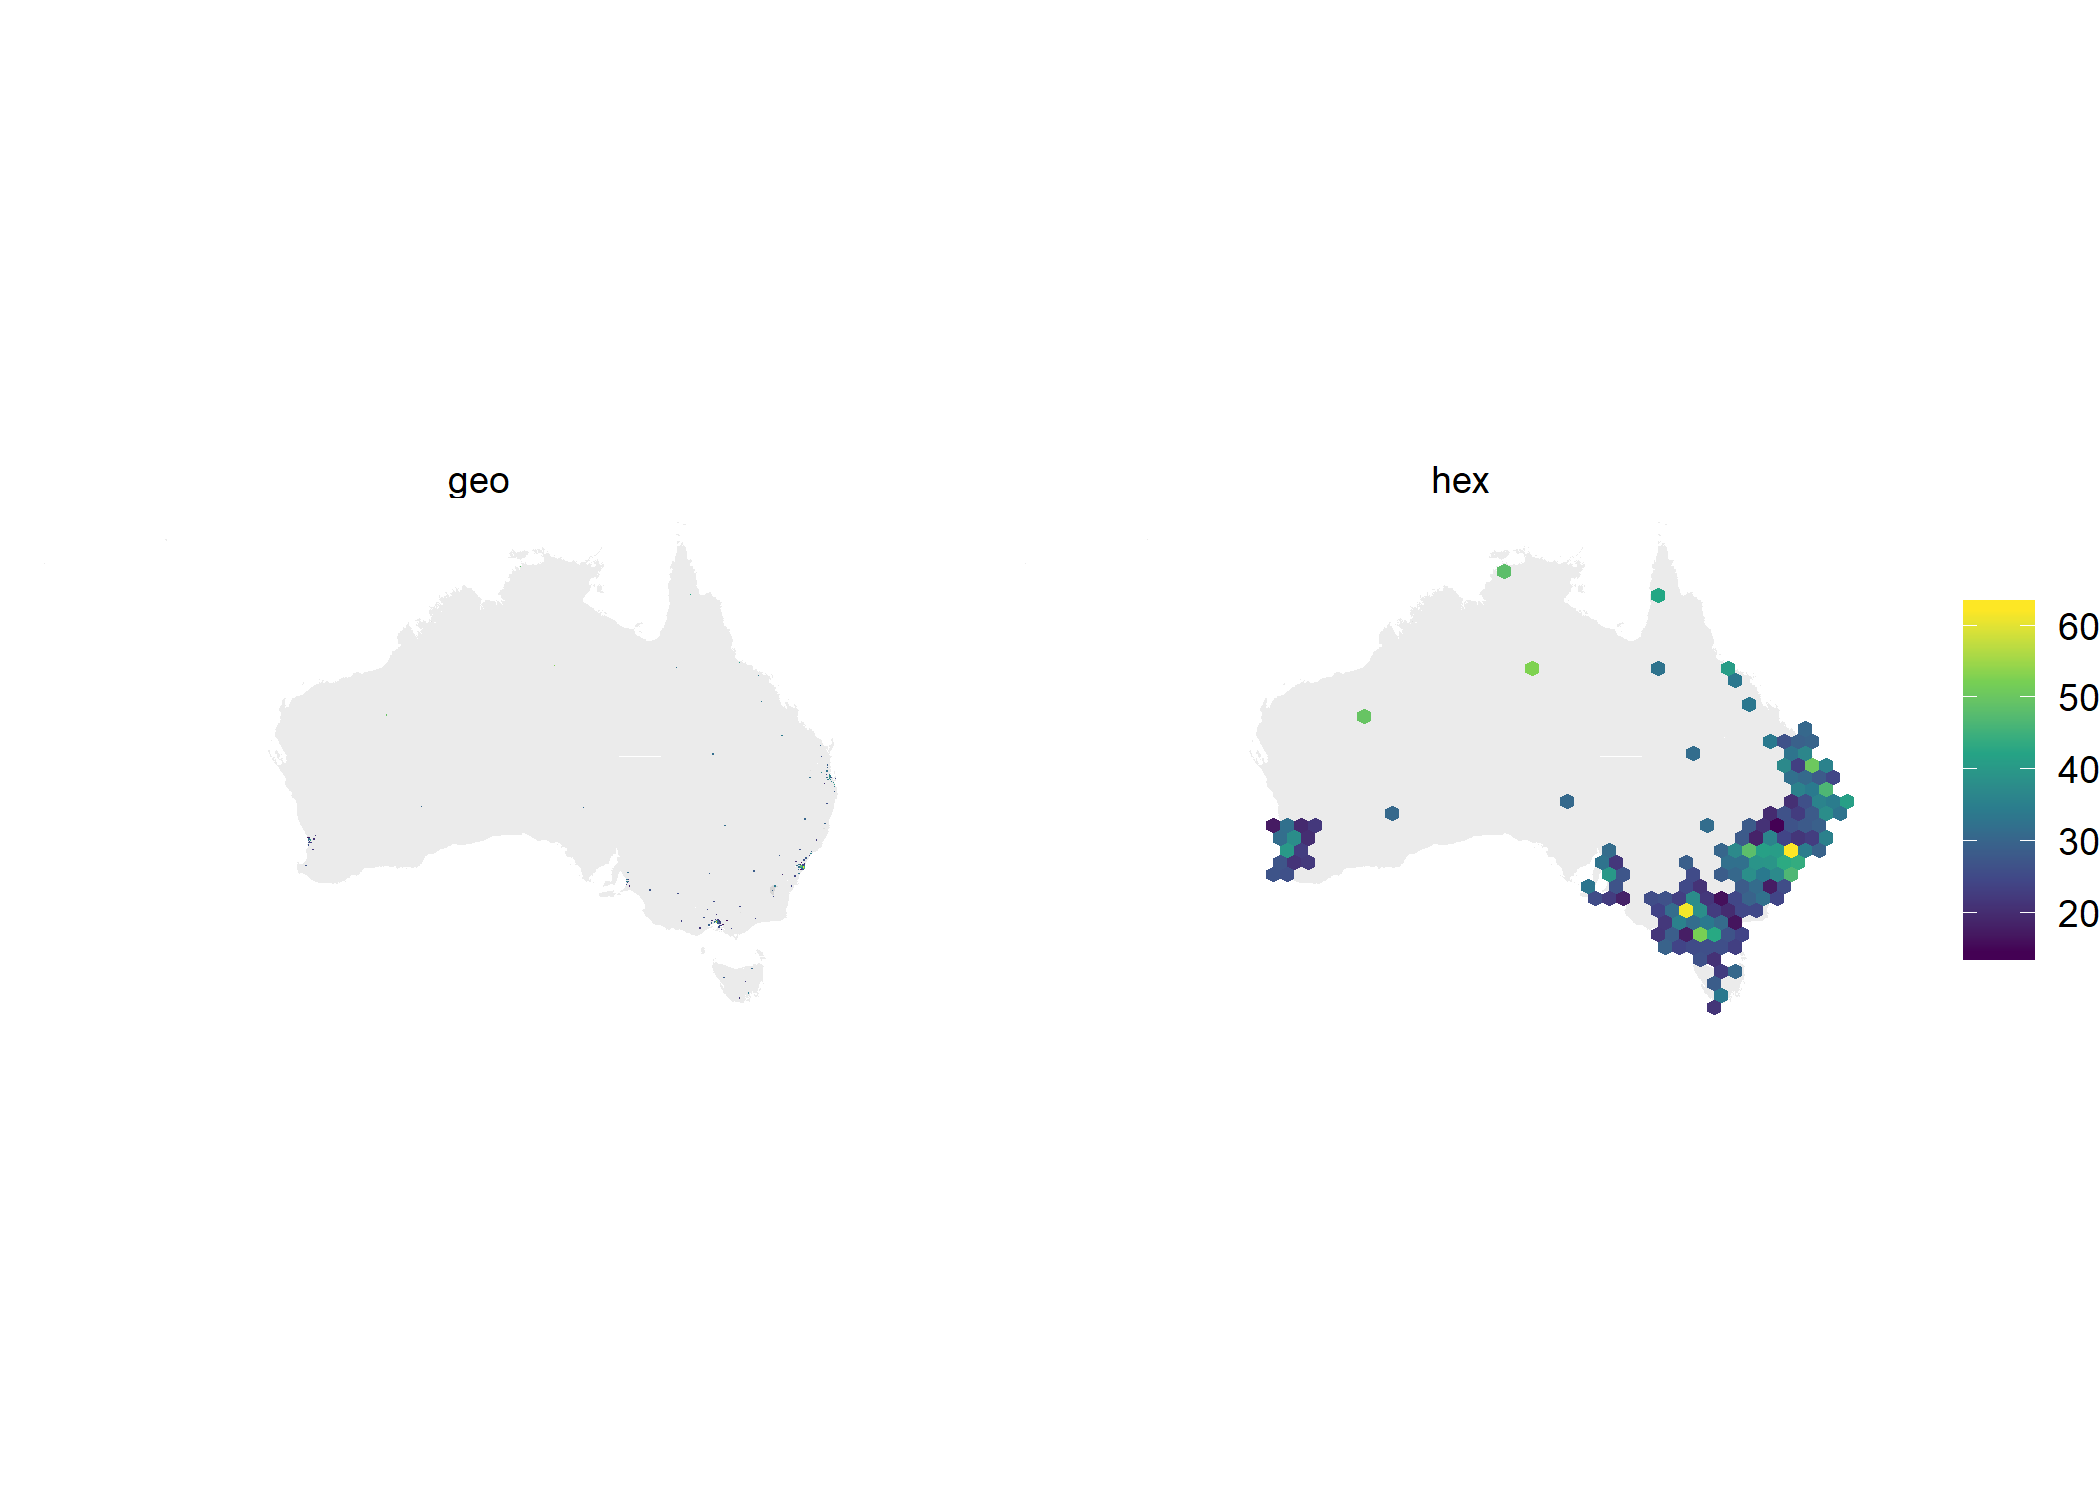
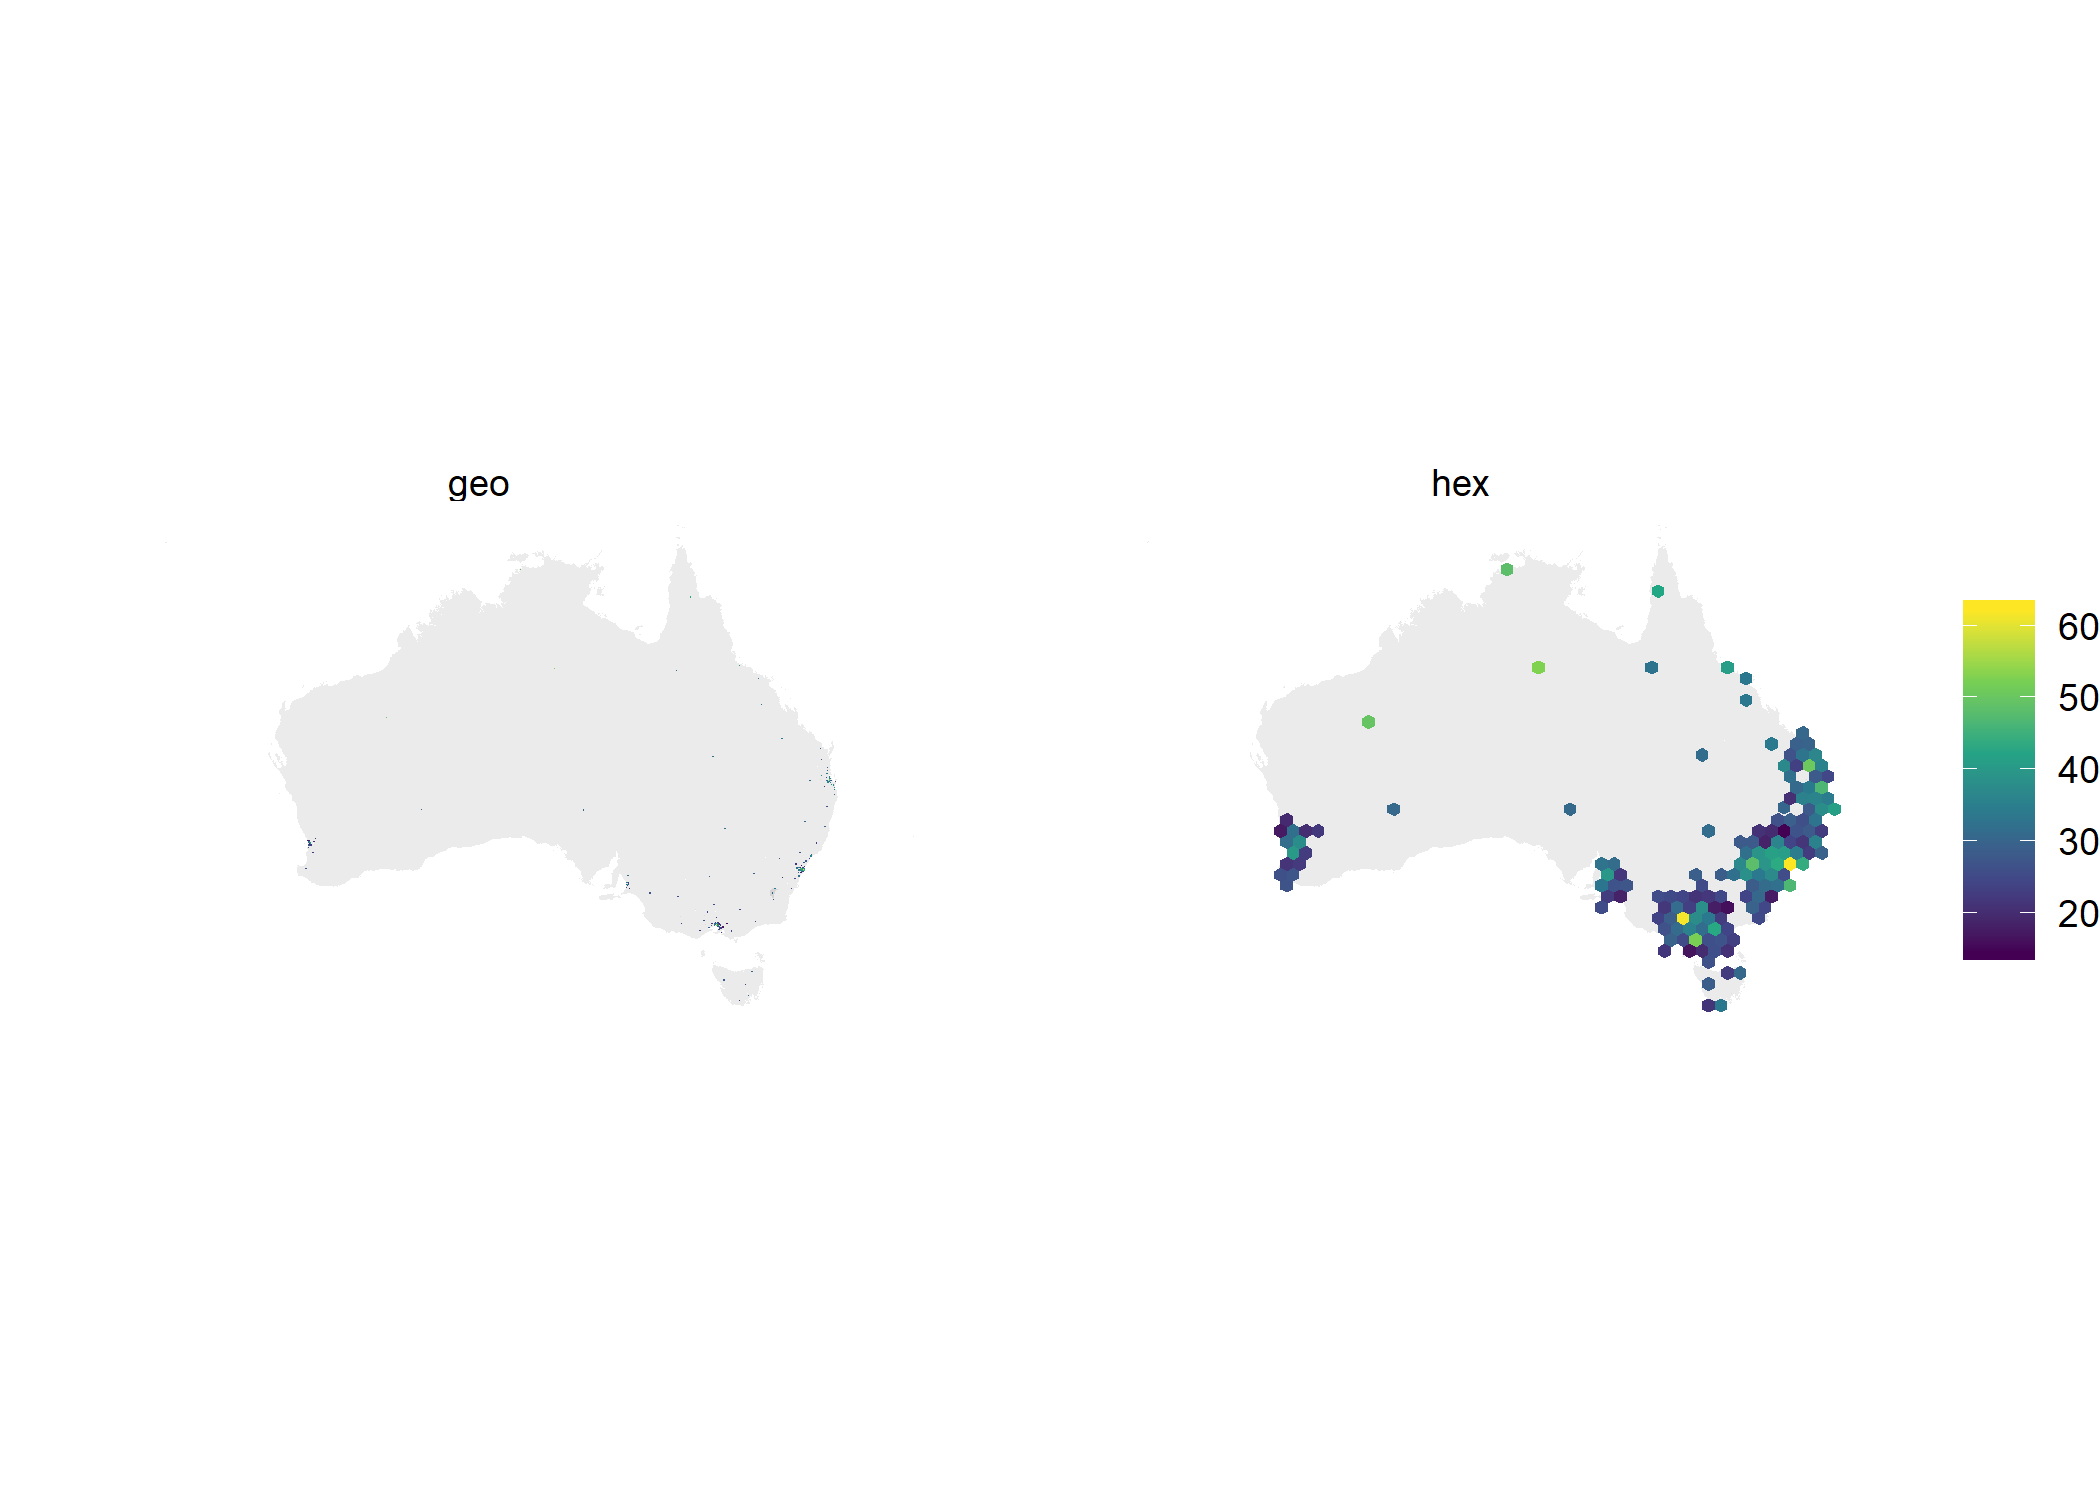
Explanations, and moving New England

diff --git a/README.md b/README.md
@@ -5,35 +5,30 @@
 
 [![Travis-CI Build
 Status](https://travis-ci.org/srkobakian/sugarbag.svg?branch=master)](https://travis-ci.org/srkobakian/sugarbag)
-[![CRAN\_Status\_Badge](http://www.r-pkg.org/badges/version/sugarbag)](https://cran.r-project.org/package=sugarbag)
-[![Downloads](http://cranlogs.r-pkg.org/badges/sugarbag?color=brightgreen)](https://cran.r-project.org/package=sugarbag)
-
 
 The **sugarbag** package creates tesselated hexagon maps for visualising
 geo-spatial data. Hexagons of equal size are positioned to best preserve
-relationships to focal points, and minimise distance from their actual
-location. This method provides an alternative to cartograms that allows
-all regions to be compared on the same visual scale.
+relationships between individual areas and the closest focal point, and
+minimise distance from their actual location. This method allows all
+regions to be compared on the same visual scale, and provides an
+alternative to cartograms.
 
 Maps containing regions with a few small and densely populated areas are
 extremely distorted in cartograms. An example of this is a population
 cartogram of Australia, which distorts the map into an unrecognisable
 shape. The technique implemented in this package is particularly useful
-for these
-regions.
+for these regions.
 
+## Installation
 
- # Installation
+You can install the released version of sugarbag from
+[CRAN](https://CRAN.R-project.org) with:
 
-<!-- You can install the released version of sugarbag from [CRAN](https://CRAN.R-project.org) with: -->
+``` r
+# install.packages("sugarbag")
+```
 
-<!-- ``` r -->
-
-<!-- install.packages("sugarbag") -->
-
-<!-- ``` -->
-
-You can install the development version from GitHub using
+You can install the development version from GitHub using:
 
 ``` r
 # install.packages("remotes")
@@ -44,32 +39,73 @@ You can install the development version from GitHub using
 
 Refer to pkgdown site: <https://srkobakian.github.io/sugarbag/>
 
+We will use the `eechidna` package for Australian electorates and
+election data.
+
 ``` r
 library(sugarbag)
 library(eechidna)
+```
 
-# We could use create centroids to find centroid for each area.
-# This has been done for us and is stored in nat_data16.
+The create\_centroids function may have been used to find centroid for
+each area. Instead we use the eechidna package. This has been derived
+already and is stored in nat\_data16.
 
+``` r
 # Find the longitude and latitude centroid for each region or area
 centroids <- nat_data16 %>% select(elect_div, longitude = long_c, latitude = lat_c)
+```
 
-# Create a grid of hexagons to allocate centroid on to
-grid <- create_grid(centroids = centroids, hex_size = 1, buffer_dist = 5)
+The `sugarbag` package operates by creating a grid of possible hexagons
+to allocate electorates. The buffer extends the grid beyond the
+geographical space, this is especially useful for densely populated
+coastal areas or cities, such as Brisbane and Sydney.
 
+``` r
+# Create a grid of hexagons to allocate centroids
+grid <- create_grid(centroids = centroids, hex_size = 0.9, buffer_dist = 5)
+```
+
+The two key pieces, the centroids and the grid can be used by the
+`allocate` function.
+
+``` r
 # Allocate the centroids to the hexagon grid
 # We have the same amount of rows, as individual regions
 hex_allocated <- allocate(centroids = centroids,
   sf_id = "elect_div",
   hex_grid = grid,
-  hex_size = 1, # same size used in create_grid
+  hex_size = 0.9, # same size used in create_grid
   hex_filter = 10,
   focal_points = capital_cities,
   width = 30, verbose = TRUE) # same column used in create_centroids
+```
 
-# We now have 6 points per region, one for each point of a hexagon
+New England was located quite far from the focal point. Due to this it
+was placed in an unfortunate position. We can find where we would like
+to place it by finding neighbouring electorates and looking at their
+hexagon locations.
+
+``` r
+# Move hexagons if not placed in desirable hexagon tile
+hex_allocated <- hex_allocated %>% mutate(hex_long = ifelse(elect_div == "NEW ENGLAND", 150.6779 + 0.45, hex_long),
+  hex_lat = ifelse(elect_div == "NEW ENGLAND", -30.31636 +0.9, hex_lat))
+```
+
+The function `fortify_hexagon` assists in plotting. We now have 6 points
+per region, one for each point of a hexagon. Connecting these points
+will allow actual hexagons to be plotted.
+
+The additional demographic information or data can now be added. This
+can be used to allow plots to be coloured by region.
+
+For animations to move between geography and hexagons the `sf_id` must
+match, there also needs to be an identifier to separate the states to
+animate between for `gganimate`.
+
+``` r
 h1 <- hex_allocated %>%
-  fortify_hexagon(hex_size = 1, sf_id = "elect_div") %>%
+  fortify_hexagon(hex_size = 0.9, sf_id = "elect_div") %>%
   left_join(nat_data16, by = "elect_div") %>% mutate(poly_type = "hex")
 
 # When plotting, the polygons are needed, rather than single centroid points.
@@ -81,16 +117,24 @@ p1 <- nat_data16 %>%
   mutate(poly_type = "geo")
 
 hex_anim <- h1 %>% 
-  select(state, elect_div, long, lat, id = id.x, poly_type) %>% 
+  select(state, elect_div, long, lat, id = id.x, poly_type, focal_dist) %>% 
   left_join(p1 %>% distinct(elect_div, polygon), by = "elect_div")
+#> Warning: Trying to compute distinct() for variables not found in the data:
+#> - `polygon`
+#> This is an error, but only a warning is raised for compatibility reasons.
+#> The following variables will be used:
+#> - elect_div
 geo_anim <- p1 %>% 
   select(elect_div, long, lat, poly_type)
 anim_aus <- bind_rows(hex_anim, geo_anim)
 
 # Join demographics data from 2016 Census
 anim_aus <- anim_aus %>% 
-  left_join(abs2016 %>% select(elect_div = DivisionNm, AusCitizen, CurrentlyStudying, MedianFamilyIncome, Unemployed, Renting))
+  left_join(abs2016 %>% select(elect_div = DivisionNm, AusCitizen, CurrentlyStudying, MedianFamilyIncome, Unemployed, Renting), by = "elect_div")
 ```
+
+Here we show the two sets of areas they can be plotted separately using
+`geom_facet`.
 
 ``` r
 anim_aus %>% 
@@ -101,28 +145,28 @@ anim_aus %>%
   theme_void() + 
   scale_fill_continuous(type = "viridis") +
   guides(fill = guide_colourbar(title = NULL)) + 
-  #theme(legend.position = "bottom") +
   facet_wrap(~poly_type)
 ```
 
 <img src="man/figures/README-plot_facet-1.png" width="100%" />
 
+We can move between the two plots using the `transition_states` function
+from the `gganimate` package.
+
 ``` r
 library(gganimate)
-anim_aus %>% 
+anim <- anim_aus %>% 
   ggplot(aes(x=long, y=lat, group = interaction(elect_div))) +
   geom_polygon(aes(x=long, y=lat, group = group),fill = "grey", alpha = 0.3, data= nat_map16) +
-  geom_polygon(aes(fill = Renting)) + 
+  geom_polygon(aes(fill = log(focal_dist), label = elect_div)) + 
   coord_equal() + 
   theme_void() +
   scale_fill_continuous(type = "viridis") +
   guides(fill = guide_legend(title = NULL)) + 
-  theme(legend.position = "bottom") +
+#  theme(legend.position = "bottom") +
   transition_states(poly_type)
+#> Warning: Ignoring unknown aesthetics: label
+animate(anim, duration = 6, fps = 5)
 ```
 
-<img src="man/figures/README-gganimate-1.gif" width="100%" />
-
-
-This project has been developed as part of a research masters program at Queensland University of Technology.
-I would like to thank my supervisory team Kerrie Mengersen, Dianne Cook and Earl Duncan.
+<img src="man/figures/README-animated-1.gif" width="100%" />
